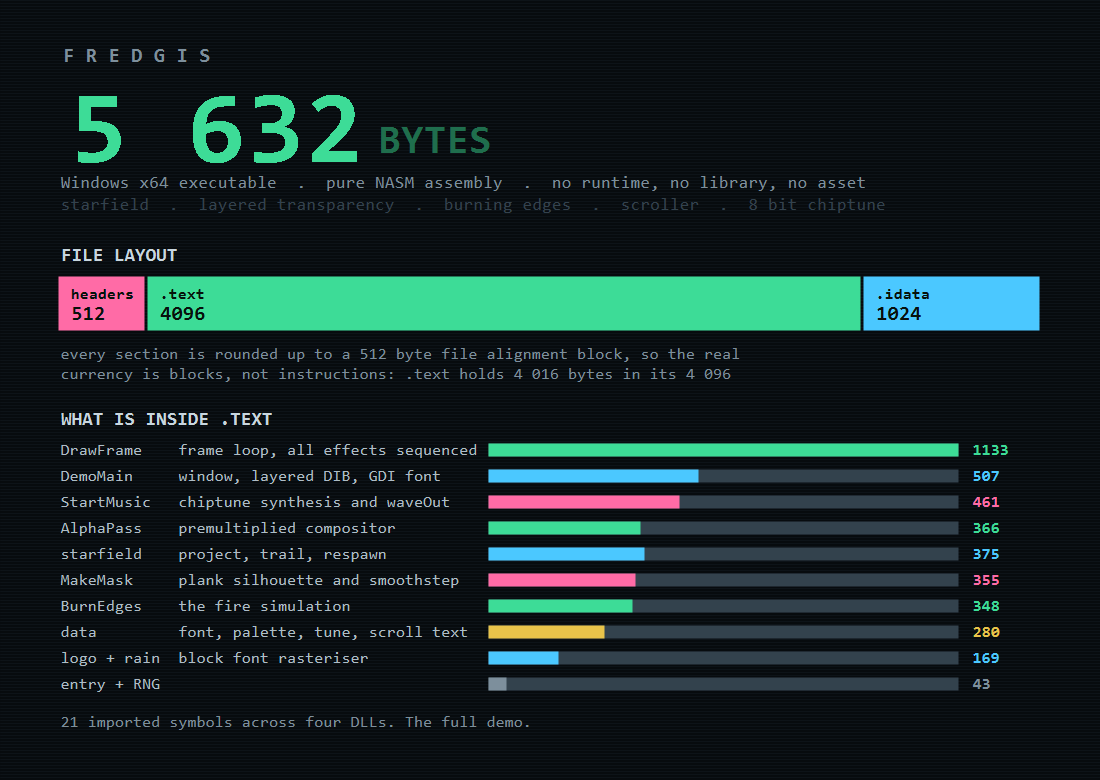
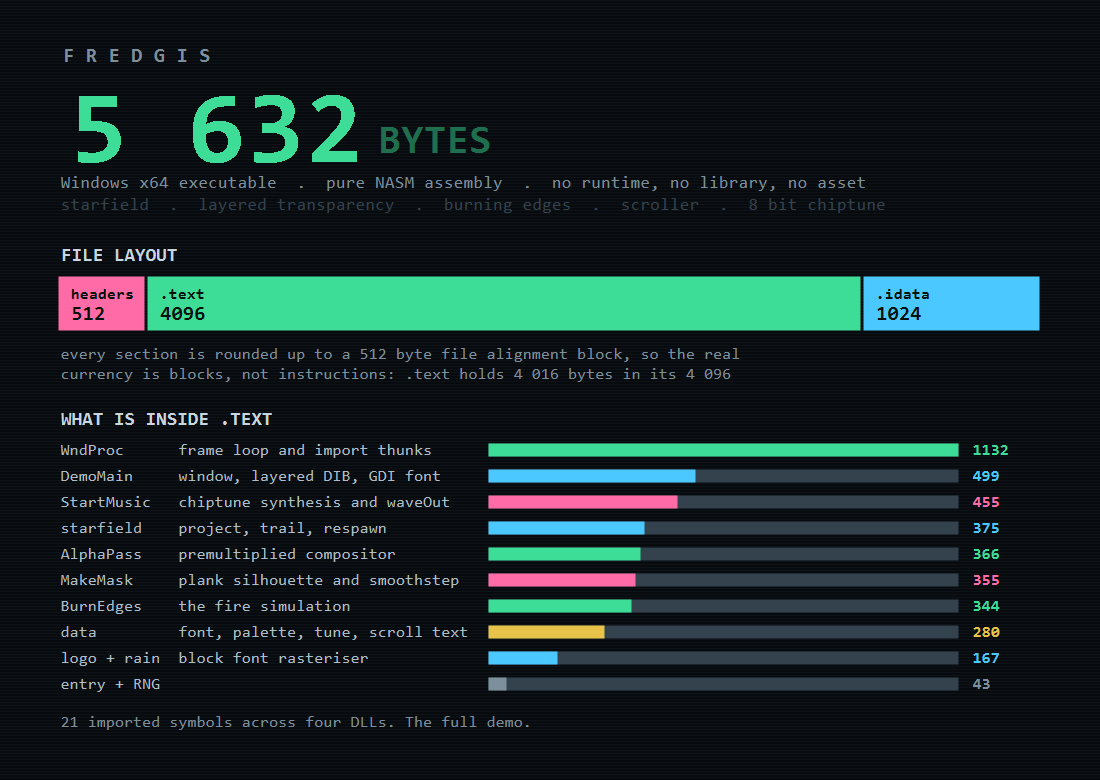
Docs: resync every quoted snippet and every measured figure
Checked the README the way the code is checked: a script pulls each of the
22 nasm blocks out of it and looks the lines up in the sources. Four blocks
had drifted, all from optimisation passes that landed after the prose was
written.

  UpdateLayeredWindow   rsp+88 and a literal 0 are mem_dc and r8 now
  MakeMask              the plank spread is imul 2 / add 16, not 4 / 10
  BurnEdges             mov r9d, 2 became push 2 / pop r9
  StartMusic            the WAVEHDR writes go through the rbx base

Three claims were simply wrong. NextRand is described as a xorshift; it is
an LCG, and its own comment says so. The 4k build is credited with nine
imported symbols; objdump counts eight, and counted eight before this
branch too. The frame loop is called a 16 ms tick in one sentence and a
20 ms one in the three other places, TIMER_MS being 20.

The byte budget graphics were hand tallied and had drifted with the code.
Every bar is now the measured distance between labels in the NASM listing,
so each chart sums to exactly the .text it describes: 4 016 and 2 960. The
full build's frame bar was labelled DrawFrame, which is the 4k routine; in
fredgis.asm it is WndProc. Both frame bars carry the import thunks ld
plants in .text, 193 bytes and 73, which is what the sums were missing.

diff --git a/README.md b/README.md
@@ -31,7 +31,7 @@ whole block comes free — the only way down was to give up features.
 | | `fredgis.asm` | `fredgis4k.asm` |
 | --- | :---: | :---: |
 | **size** | **5 632 bytes** | **4 096 bytes** |
-| imported symbols | 21, four DLLs | 9, three DLLs |
+| imported symbols | 21, four DLLs | 8, three DLLs |
 | burning plank window, layered alpha | ✅ | ✅ |
 | block logo, Matrix rain, glitch | ✅ | ✅ |
 | perspective starfield with trails | ✅ | ✅ |
@@ -70,7 +70,7 @@ bitmap, and the music is synthesised sample by sample into a byte array.
 
 | File | Purpose |
 | --- | --- |
-| `fredgis.asm` | The full demo. ~1 450 lines of NASM, 21 imported symbols. |
+| `fredgis.asm` | The full demo. ~1 520 lines of NASM, 21 imported symbols. |
 | `fredgis4k.asm` | The same demo stripped to fit 4 096 bytes. |
 | `tiny.ld` | Custom linker script that discards every section the linker emits by default and that this program has no use for. |
 | `pecompact.ps1` | Post link step that shrinks the padded PE header block from 512 to 0 wasted bytes. |
@@ -151,7 +151,7 @@ flowchart LR
     class D,E d
 ```
 
-There is no engine and no abstraction layer: one source file, one 16 ms loop,
+There is no engine and no abstraction layer: one source file, one 20 ms loop,
 and three tables of bytes that every effect reads from or writes to.
 
 ---
@@ -173,11 +173,11 @@ An irregular outline with *soft* edges cannot be done with a region —
     xor edx, edx
     xor r8d, r8d
     lea r9, [ulw_size]
-    mov rax, qword [rsp + 88]
+    mov rax, qword [mem_dc]
     mov qword [rsp + 32], rax
     lea rax, [ulw_src]
     mov qword [rsp + 40], rax
-    mov qword [rsp + 48], 0
+    mov qword [rsp + 48], r8
     lea rax, [ulw_blend]
     mov qword [rsp + 56], rax
     mov qword [rsp + 64], ULW_ALPHA
@@ -238,9 +238,9 @@ right, independently, so no two ends line up:
 ```nasm
     call NextRand
     and eax, 15
-    imul eax, eax, 4                    ; 10..TIP_MAX: the planks must end at
-    add eax, 10                         ; clearly different depths or the
-    mov r14d, eax                       ; silhouette reads as a rectangle
+    imul eax, eax, 2                    ; 16..TIP_MAX. The spread stays small:
+    add eax, 16                         ; a big one turns the stack into a
+    mov r14d, eax                       ; visible staircase of black steps
 ```
 
 The fade width is the constant `PLANK_FADE = 64`. Making it a power of two
@@ -308,7 +308,8 @@ fine static. Diffusing the heat along y a little every frame builds up the
 correlation that turns static into tongues of different lengths:
 
 ```nasm
-    mov r9d, 2
+    push 2
+    pop r9
 .smooth_pass:
     movzx r8d, byte [r10]               ; previous row, clamped at the top
     xor r12d, r12d
@@ -470,8 +471,9 @@ into `.bss` at startup and then handed to the mixer **on an infinite hardware
 loop**, so the demo spends zero instructions per frame on audio.
 
 ```nasm
-    mov dword [wave_hdr + 24], 0x0C     ; WHDR_BEGINLOOP | WHDR_ENDLOOP
-    mov dword [wave_hdr + 28], -1       ; and never stop looping
+    lea rbx, [wave_hdr]                 ; one base for the whole header
+    mov dword [rbx + 24], 0x0C          ; WHDR_BEGINLOOP | WHDR_ENDLOOP
+    mov dword [rbx + 28], -1            ; and never stop looping
 ```
 
 That trick is what keeps it cheap: no callback, no streaming thread, no double
@@ -562,7 +564,7 @@ second run.
 | Routine | Role |
 | --- | --- |
 | `start` | Entry point, seeds the RNG, calls `DemoMain`, `ExitProcess`. |
-| `NextRand` | 32-bit xorshift. Everything random comes from here. |
+| `NextRand` | 32-bit LCG, high bits only. Everything random comes from here. |
 | `MakeMask` | Per-row alpha mask of the planks; records each tip so the fire knows where to burn. |
 | `SmoothStep` | `3t² − 2t³` in fixed point, the curve that melts the plank ends into the fire. |
 | `BuildLogo` / `DrawBlock` | Block font rasteriser, Matrix rain and glitch blocks. |
